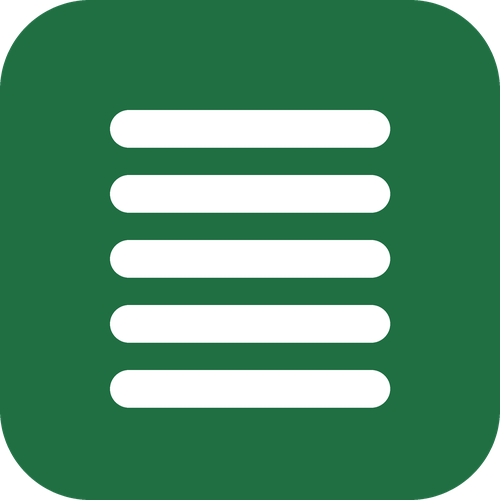
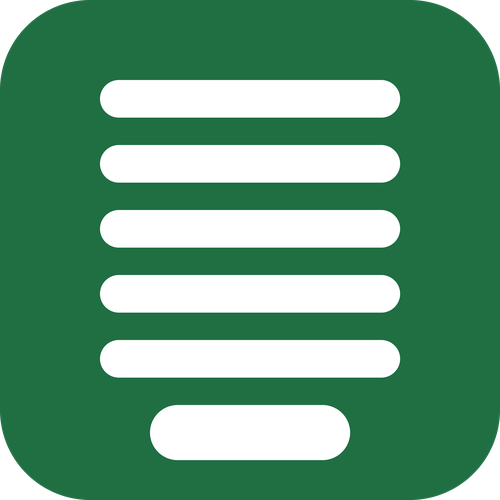
Prepare for open-source release
- Add disclaimer (unofficial, trademarks of Teleco Automation/Somfy)
- LICENSE + THIRD_PARTY_NOTICES with upstream MIT attributions
- README: install, limitations, credits; CHANGELOG
- GitHub Actions workflow to validate at publish level
- Correct driver image sizes (75x75 / 500x500); author name

diff --git a/README.md b/README.md
@@ -1,6 +1,6 @@
-# Teleco Daisy (Local)
+# Teleco Daisy (Local) — Homey app
 
-Control your **Teleco Automation DaisyBox** from Homey — over your local network, without the Teleco cloud.
+Control your **Teleco Automation DaisyBox** from Homey over your **local network**, without the Teleco cloud.
 
 The DaisyBox speaks a local, unauthenticated protocol on the LAN:
 
@@ -9,10 +9,31 @@ The DaisyBox speaks a local, unauthenticated protocol on the LAN:
 
 This app uses that channel for all control, so commands are near-instant and keep working when the Teleco cloud is unavailable.
 
+> **Unofficial.** This is an independent, community-developed project. It is not affiliated with, authorized, or endorsed by Teleco Automation S.r.l. or Somfy. "Teleco", "Daisy" and "DaisyBox" are trademarks of their respective owners and are used here only to describe compatibility.
+
 ## How it works
 
 - **Pairing (one-time cloud):** when you add a device, you log in once with your Daisy app email/password. The app reads your installation, rooms and devices from the Teleco cloud and stores the device IDs locally.
 - **Control (fully local):** every command is sent directly to the DaisyBox on TCP :400. No internet connection is required after pairing.
+
+## Requirements
+
+- **Homey Pro** (2016–2019 or Early 2023). Homey Cloud / Bridge cannot run local-network apps.
+- The DaisyBox and Homey on the same LAN/subnet.
+- A Daisy account (only for the one-time pairing step).
+
+## Installation (development)
+
+```bash
+npm install -g homey
+homey login
+homey select --id <your-homey-id>
+git clone https://github.com/rrusinov/homey-teleco-daisy.git
+cd homey-teleco-daisy
+homey app install
+```
+
+Then in the Homey app: **Devices → + → Add Device → Teleco Daisy (Local)**.
 
 ## Supported devices
 
@@ -21,25 +42,33 @@ Any Teleco Daisy device type exposed by the cloud configuration:
 - **Louver / Cover** — pergola slats, awnings, shades, curtains (`windowcoverings`).
 - **Light / Heater** — on/off lights, dimmable 4-level lights, 4-channel heaters (`light`).
 
-Position presets: the hardware only accepts discrete steps (e.g. 0 / 33 / 66 / 100 %). The `windowcoverings_set` slider snaps to the nearest supported step.
+### Positions
 
-## Requirements
+The hardware only accepts discrete steps. The **Position** picker offers
+`Closed (0%) / 33% / 66% / 100%`. The standard Homey slider is also available
+and snaps to the nearest supported step.
 
-- **Homey Pro** (2016–2019 or Early 2023). Homey Cloud / Bridge cannot run local-network apps.
-- The DaisyBox and Homey on the same LAN/subnet.
+## Limitations
 
-## Notes
-
-- The DaisyBox handles **one command at a time** and can be temporarily unresponsive under bursts. This app serialises commands and reports `DaisyBox is busy` when it answers `DENY`.
-- Status estimates (e.g. slat position) are optimistic, since some motors provide no position feedback.
+- **No local state feedback.** The box's TCP :400 channel is write-only (it only
+  replies `ACK` / `DENY`). Device state is pushed by the box to the Teleco cloud,
+  so this app tracks position optimistically. Homey cannot read the real
+  position without using the cloud.
+- The DaisyBox handles **one command at a time** and can be temporarily
+  unresponsive under bursts. Commands are serialised; a busy box returns
+  `DaisyBox is busy`.
+- Slat position for one-way motors is an estimate (no hardware feedback).
 
 ## Credits
 
 The local protocol was reverse-engineered by the community:
 
-- [andreasnuesslein/py-teleco-daisy](https://github.com/andreasnuesslein/py-teleco-daisy) and [hass_teleco_daisy](https://github.com/andreasnuesslein/hass_teleco_daisy) (MIT)
+- [andreasnuesslein/py-teleco-daisy](https://github.com/andreasnuesslein/py-teleco-daisy) (MIT)
+- [andreasnuesslein/hass_teleco_daisy](https://github.com/andreasnuesslein/hass_teleco_daisy) (MIT)
 - [croll83/ha-teleco-daisy](https://github.com/croll83/ha-teleco-daisy) — local LAN channel (MIT)
+
+See [THIRD_PARTY_NOTICES.md](THIRD_PARTY_NOTICES.md) for their license texts.
 
 ## License
 
-MIT
+[MIT](LICENSE) © Ruslan Rusinov. Unofficial and not endorsed by Teleco Automation / Somfy.

diff --git a/THIRD_PARTY_NOTICES.md b/THIRD_PARTY_NOTICES.md
@@ -1,0 +1,96 @@
+# Third-party notices
+
+This app is an independent, unofficial integration for Teleco Automation
+DaisyBox devices. It builds on protocol knowledge and code from the following
+MIT-licensed open-source projects. Their license terms are reproduced below.
+
+---
+
+## py-teleco-daisy
+
+Source: https://github.com/andreasnuesslein/py-teleco-daisy
+
+```
+MIT License
+
+Copyright (c) 2024 Andreas Nüßlein
+
+Permission is hereby granted, free of charge, to any person obtaining a copy
+of this software and associated documentation files (the "Software"), to deal
+in the Software without restriction, including without limitation the rights
+to use, copy, modify, merge, publish, distribute, sublicense, and/or sell
+copies of the Software, and to permit persons to whom the Software is
+furnished to do so, subject to the following conditions:
+
+The above copyright notice and this permission notice shall be included in all
+copies or substantial portions of the Software.
+
+THE SOFTWARE IS PROVIDED "AS IS", WITHOUT WARRANTY OF ANY KIND, EXPRESS OR
+IMPLIED, INCLUDING BUT NOT LIMITED TO THE WARRANTIES OF MERCHANTABILITY,
+FITNESS FOR A PARTICULAR PURPOSE AND NONINFRINGEMENT. IN NO EVENT SHALL THE
+AUTHORS OR COPYRIGHT HOLDERS BE LIABLE FOR ANY CLAIM, DAMAGES OR OTHER
+LIABILITY, WHETHER IN AN ACTION OF CONTRACT, TORT OR OTHERWISE, ARISING FROM,
+OUT OF OR IN CONNECTION WITH THE SOFTWARE OR THE USE OR OTHER DEALINGS IN THE
+SOFTWARE.
+```
+
+---
+
+## hass_teleco_daisy
+
+Source: https://github.com/andreasnuesslein/hass_teleco_daisy
+
+```
+MIT License
+
+Copyright (c) 2024 Andreas Nüßlein
+
+Permission is hereby granted, free of charge, to any person obtaining a copy
+of this software and associated documentation files (the "Software"), to deal
+in the Software without restriction, including without limitation the rights
+to use, copy, modify, merge, publish, distribute, sublicense, and/or sell
+copies of the Software, and to permit persons to whom the Software is
+furnished to do so, subject to the following conditions:
+
+The above copyright notice and this permission notice shall be included in all
+copies or substantial portions of the Software.
+
+THE SOFTWARE IS PROVIDED "AS IS", WITHOUT WARRANTY OF ANY KIND, EXPRESS OR
+IMPLIED, INCLUDING BUT NOT LIMITED TO THE WARRANTIES OF MERCHANTABILITY,
+FITNESS FOR A PARTICULAR PURPOSE AND NONINFRINGEMENT. IN NO EVENT SHALL THE
+AUTHORS OR COPYRIGHT HOLDERS BE LIABLE FOR ANY CLAIM, DAMAGES OR OTHER
+LIABILITY, WHETHER IN AN ACTION OF CONTRACT, TORT OR OTHERWISE, ARISING FROM,
+OUT OF OR IN CONNECTION WITH THE SOFTWARE OR THE USE OR OTHER DEALINGS IN THE
+SOFTWARE.
+```
+
+---
+
+## ha-teleco-daisy
+
+Source: https://github.com/croll83/ha-teleco-daisy
+
+```
+MIT License
+
+Copyright (c) 2024 Andreas Nüßlein (original component)
+Copyright (c) 2026 croll83 (local LAN channel additions)
+
+Permission is hereby granted, free of charge, to any person obtaining a copy
+of this software and associated documentation files (the "Software"), to deal
+in the Software without restriction, including without limitation the rights
+to use, copy, modify, merge, publish, distribute, sublicense, and/or sell
+copies of the Software, and to permit persons to whom the Software is
+furnished to do so, subject to the following conditions:
+
+The above copyright notice and this permission notice shall be included in all
+copies or substantial portions of the Software.
+
+THE SOFTWARE IS PROVIDED "AS IS", WITHOUT WARRANTY OF ANY KIND, EXPRESS OR
+IMPLIED, INCLUDING BUT NOT LIMITED TO THE WARRANTIES OF MERCHANTABILITY,
+FITNESS FOR A PARTICULAR PURPOSE AND NONINFRINGEMENT. IN NO EVENT SHALL THE
+AUTHORS OR COPYRIGHT HOLDERS BE LIABLE FOR ANY CLAIM, DAMAGES OR OTHER
+LIABILITY, WHETHER IN AN ACTION OF CONTRACT, TORT OR OTHERWISE, ARISING FROM,
+OUT OF OR IN CONNECTION WITH THE SOFTWARE OR THE USE OR OTHER DEALINGS IN THE
+SOFTWARE.
+```

diff --git a/CHANGELOG.md b/CHANGELOG.md
@@ -1,0 +1,15 @@
+# Changelog
+
+## 1.1.0
+
+- Add discrete **Position** picker for covers (Closed 0% / 33% / 66% / 100%)
+- Slider now snaps to the nearest supported hardware step
+- Add per-driver device icons (`drivers/*/assets/icon.svg`)
+- Move source to `github.com/rrusinov/homey-teleco-daisy`
+
+## 1.0.0
+
+- Initial release
+- Local LAN control (UDP :55555 discovery, TCP :400 commands)
+- One-time cloud pairing to enumerate devices; fully offline control afterwards
+- `cover` and `light`/`heater` drivers
